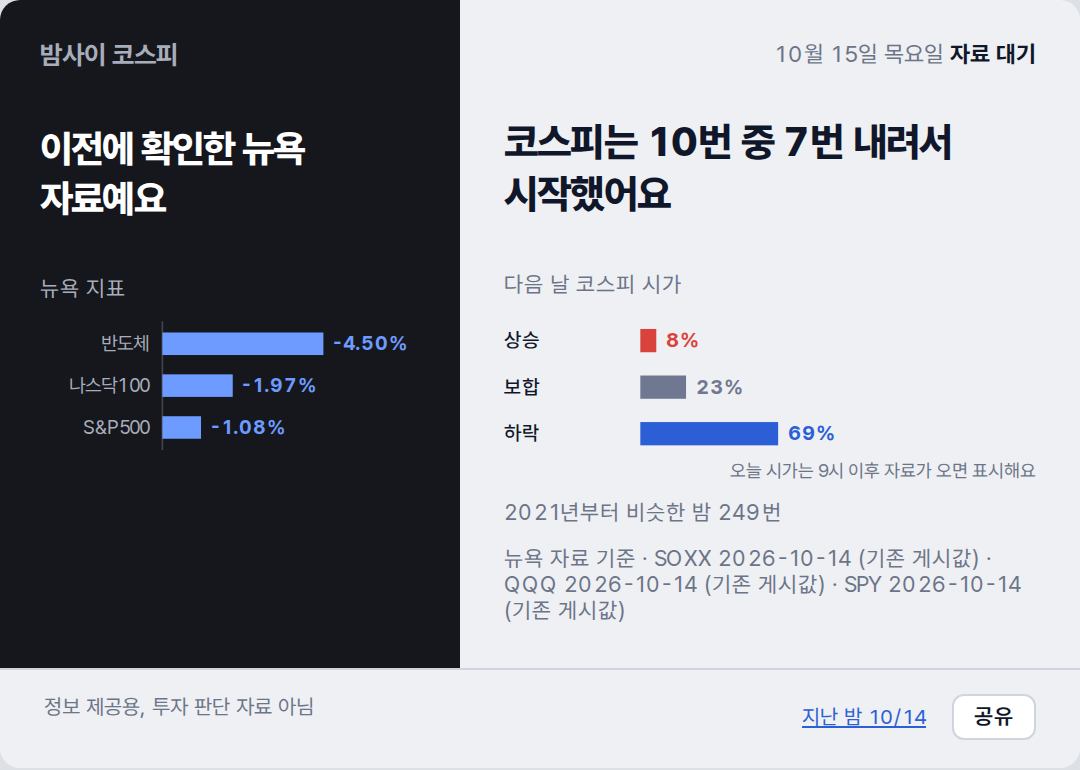
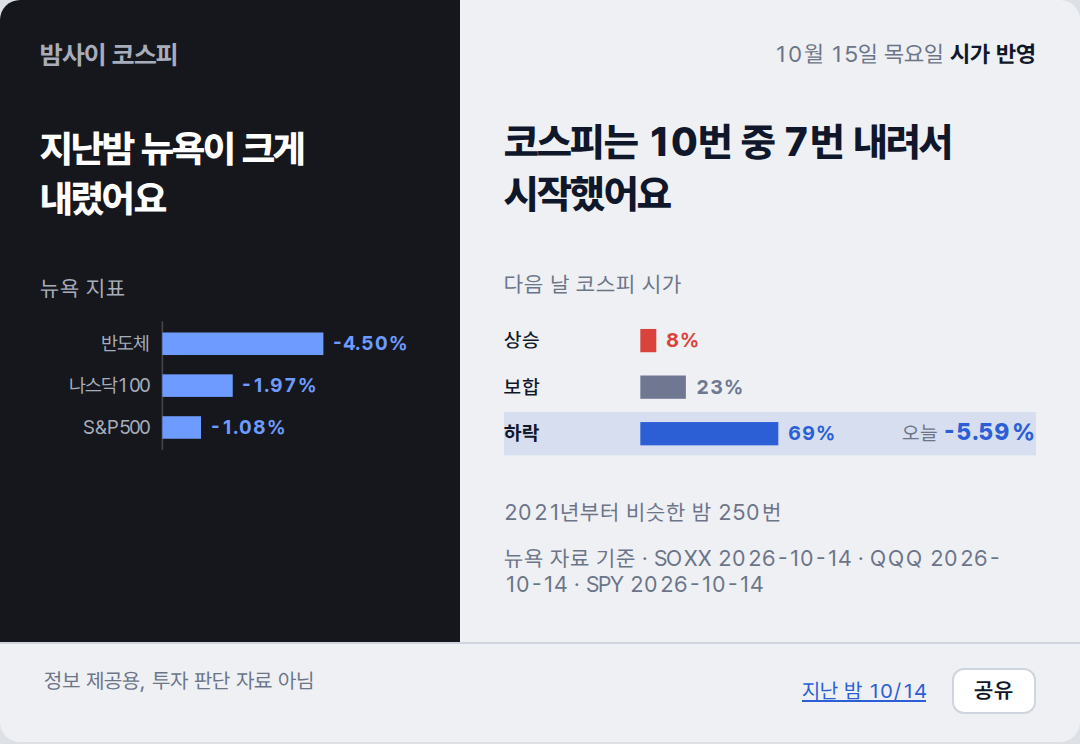
deploy: c0d07a214321b41f7cf333fef670b17ffe5b5852

diff --git a/2026-10-15/index.html b/2026-10-15/index.html
@@ -2,7 +2,7 @@
 <title>밤사이 코스피 · 2026-10-15</title>
 <meta name="description" content="전일 코스피 마감에서 밤사이 뉴욕을 거쳐 오늘 코스피 시가까지, 한 장.">
 <meta property="og:type" content="article"><meta property="og:site_name" content="밤사이 코스피"><meta property="og:url" content="https://mjs0611.github.io/kospi-relay/2026-10-15/">
-<meta property="og:title" content="이전에 확인한 뉴욕 자료예요"><meta property="og:description" content="코스피는 10번 중 7번 내려서 시작했어요">
+<meta property="og:title" content="지난밤 뉴욕이 크게 내렸어요"><meta property="og:description" content="코스피는 10번 중 7번 내려서 시작했어요">
 <meta property="og:image" content="https://mjs0611.github.io/kospi-relay/2026-10-15/relay.png"><meta property="og:image:width" content="1080"><meta name="twitter:card" content="summary_large_image">
 <link rel="stylesheet" href="https://cdn.jsdelivr.net/gh/orioncactus/pretendard@v1.3.9/dist/web/variable/pretendardvariable-dynamic-subset.min.css">
 <style>
@@ -26,7 +26,7 @@ footer a{color:#2C5FD6}
 .share{margin-left:10px;border:1px solid #CFD5DE;background:#FFF;color:#10172A;border-radius:6px;padding:4px 10px;font:600 11px var(--sans);cursor:pointer}
 @media (max-width:480px){.sheet{grid-template-columns:1fr}.cond{margin-top:18px}.claim{margin-top:4px}}
 </style></head><body><div class="sheet">
-<section class="night"><p class="brand">밤사이 코스피</p><p class="cond">이전에 확인한 뉴욕 자료예요</p><p class="lab">뉴욕 지표</p><svg viewBox="0 0 236 84" xmlns="http://www.w3.org/2000/svg" font-family="var(--sans)" font-size="12">
+<section class="night"><p class="brand">밤사이 코스피</p><p class="cond">지난밤 뉴욕이 크게 내렸어요</p><p class="lab">뉴욕 지표</p><svg viewBox="0 0 236 84" xmlns="http://www.w3.org/2000/svg" font-family="var(--sans)" font-size="12">
 <line x1="76" y1="2" x2="76" y2="82" stroke="var(--rule)" stroke-width="1"/>
 <text x="68" y="20" text-anchor="end" fill="var(--muted)">반도체</text>
 <rect x="76" y="9" width="100.0" height="14" fill="var(--down)"/>
@@ -38,23 +38,24 @@ footer a{color:#2C5FD6}
 <rect x="76" y="61" width="24.0" height="14" fill="var(--down)"/>
 <text x="106.0" y="72" fill="var(--down)" font-weight="700">-1.08%</text>
 </svg></section>
-<section class="day"><p class="stamp">10월 15일 목요일 <b>자료 대기</b></p><p class="claim">코스피는 10번 중 7번 내려서 시작했어요</p><p class="lab">다음 날 코스피 시가</p><svg viewBox="0 0 320 100" xmlns="http://www.w3.org/2000/svg" font-family="var(--sans)" font-size="12">
+<section class="day"><p class="stamp">10월 15일 목요일 <b>시가 반영</b></p><p class="claim">코스피는 10번 중 7번 내려서 시작했어요</p><p class="lab">다음 날 코스피 시가</p><svg viewBox="0 0 320 100" xmlns="http://www.w3.org/2000/svg" font-family="var(--sans)" font-size="12">
 <text x="0" y="20" fill="var(--ink)" font-weight="500">상승</text>
 <rect x="82" y="9" width="9.6" height="14" fill="var(--up)"/>
 <text x="97.6" y="20" fill="var(--up)" font-weight="700">8%</text>
 <text x="0" y="48" fill="var(--ink)" font-weight="500">보합</text>
-<rect x="82" y="37" width="27.5" height="14" fill="var(--flat)"/>
-<text x="115.5" y="48" fill="var(--flat)" font-weight="700">23%</text>
-<text x="0" y="76" fill="var(--ink)" font-weight="500">하락</text>
-<rect x="82" y="65" width="82.9" height="14" fill="var(--down)"/>
-<text x="170.9" y="76" fill="var(--down)" font-weight="700">69%</text>
-<text x="320" y="98" text-anchor="end" fill="var(--muted)" font-size="11">오늘 시가는 9시 이후 자료가 오면 표시해요</text>
-</svg><p class="cap">2021년부터 비슷한 밤 249번</p><p class="cap">뉴욕 자료 기준 · SOXX 2026-10-14 (기존 게시값) · QQQ 2026-10-14 (기존 게시값) · SPY 2026-10-14 (기존 게시값)</p></section>
+<rect x="82" y="37" width="27.4" height="14" fill="var(--flat)"/>
+<text x="115.4" y="48" fill="var(--flat)" font-weight="700">23%</text>
+<rect x="0" y="59" width="320" height="26" fill="var(--down)" opacity=".12"/>
+<text x="0" y="76" fill="var(--ink)" font-weight="700">하락</text>
+<rect x="82" y="65" width="83.0" height="14" fill="var(--down)"/>
+<text x="171.0" y="76" fill="var(--down)" font-weight="700">69%</text>
+<text x="320" y="76" text-anchor="end" fill="var(--ink)"><tspan fill="var(--muted)">오늘 </tspan><tspan font-weight="800" font-size="14" fill="var(--down)">-5.59%</tspan></text>
+</svg><p class="cap">2021년부터 비슷한 밤 250번</p><p class="cap">뉴욕 자료 기준 · SOXX 2026-10-14 · QQQ 2026-10-14 · SPY 2026-10-14</p></section>
 <footer><span>정보 제공용, 투자 판단 자료 아님</span><span style="white-space:nowrap"><a href="../2026-10-14/">지난 밤 10/14</a> <button class="share" type="button">공유</button></span></footer>
 <script>
 /* 공유: Web Share가 있으면 시스템 공유 시트, 없으면 링크 복사. 링크는 이 날짜 페이지(OG 카드 붙음) */
 document.querySelector('.share').addEventListener('click', async function () {
-  var url = 'https://mjs0611.github.io/kospi-relay/2026-10-15/', text = "이전에 확인한 뉴욕 자료예요. 코스피는 10번 중 7번 내려서 시작했어요";
+  var url = 'https://mjs0611.github.io/kospi-relay/2026-10-15/', text = "지난밤 뉴욕이 크게 내렸어요. 코스피는 10번 중 7번 내려서 시작했어요";
   try { if (navigator.share) { await navigator.share({ title: '밤사이 코스피', text: text, url: url }); return; } } catch (e) { if (e && e.name === 'AbortError') return; }
   try { await navigator.clipboard.writeText(text + '\n' + url); this.textContent = '링크 복사됨'; } catch (e) { location.href = url; }
 });

diff --git a/index.html b/index.html
@@ -2,7 +2,7 @@
 <title>밤사이 코스피 · 2026-10-15</title>
 <meta name="description" content="전일 코스피 마감에서 밤사이 뉴욕을 거쳐 오늘 코스피 시가까지, 한 장.">
 <meta property="og:type" content="article"><meta property="og:site_name" content="밤사이 코스피"><meta property="og:url" content="https://mjs0611.github.io/kospi-relay/2026-10-15/">
-<meta property="og:title" content="이전에 확인한 뉴욕 자료예요"><meta property="og:description" content="코스피는 10번 중 7번 내려서 시작했어요">
+<meta property="og:title" content="지난밤 뉴욕이 크게 내렸어요"><meta property="og:description" content="코스피는 10번 중 7번 내려서 시작했어요">
 <meta property="og:image" content="https://mjs0611.github.io/kospi-relay/2026-10-15/relay.png"><meta property="og:image:width" content="1080"><meta name="twitter:card" content="summary_large_image">
 <link rel="stylesheet" href="https://cdn.jsdelivr.net/gh/orioncactus/pretendard@v1.3.9/dist/web/variable/pretendardvariable-dynamic-subset.min.css">
 <style>
@@ -26,7 +26,7 @@ footer a{color:#2C5FD6}
 .share{margin-left:10px;border:1px solid #CFD5DE;background:#FFF;color:#10172A;border-radius:6px;padding:4px 10px;font:600 11px var(--sans);cursor:pointer}
 @media (max-width:480px){.sheet{grid-template-columns:1fr}.cond{margin-top:18px}.claim{margin-top:4px}}
 </style></head><body><div class="sheet">
-<section class="night"><p class="brand">밤사이 코스피</p><p class="cond">이전에 확인한 뉴욕 자료예요</p><p class="lab">뉴욕 지표</p><svg viewBox="0 0 236 84" xmlns="http://www.w3.org/2000/svg" font-family="var(--sans)" font-size="12">
+<section class="night"><p class="brand">밤사이 코스피</p><p class="cond">지난밤 뉴욕이 크게 내렸어요</p><p class="lab">뉴욕 지표</p><svg viewBox="0 0 236 84" xmlns="http://www.w3.org/2000/svg" font-family="var(--sans)" font-size="12">
 <line x1="76" y1="2" x2="76" y2="82" stroke="var(--rule)" stroke-width="1"/>
 <text x="68" y="20" text-anchor="end" fill="var(--muted)">반도체</text>
 <rect x="76" y="9" width="100.0" height="14" fill="var(--down)"/>
@@ -38,23 +38,24 @@ footer a{color:#2C5FD6}
 <rect x="76" y="61" width="24.0" height="14" fill="var(--down)"/>
 <text x="106.0" y="72" fill="var(--down)" font-weight="700">-1.08%</text>
 </svg></section>
-<section class="day"><p class="stamp">10월 15일 목요일 <b>자료 대기</b></p><p class="claim">코스피는 10번 중 7번 내려서 시작했어요</p><p class="lab">다음 날 코스피 시가</p><svg viewBox="0 0 320 100" xmlns="http://www.w3.org/2000/svg" font-family="var(--sans)" font-size="12">
+<section class="day"><p class="stamp">10월 15일 목요일 <b>시가 반영</b></p><p class="claim">코스피는 10번 중 7번 내려서 시작했어요</p><p class="lab">다음 날 코스피 시가</p><svg viewBox="0 0 320 100" xmlns="http://www.w3.org/2000/svg" font-family="var(--sans)" font-size="12">
 <text x="0" y="20" fill="var(--ink)" font-weight="500">상승</text>
 <rect x="82" y="9" width="9.6" height="14" fill="var(--up)"/>
 <text x="97.6" y="20" fill="var(--up)" font-weight="700">8%</text>
 <text x="0" y="48" fill="var(--ink)" font-weight="500">보합</text>
-<rect x="82" y="37" width="27.5" height="14" fill="var(--flat)"/>
-<text x="115.5" y="48" fill="var(--flat)" font-weight="700">23%</text>
-<text x="0" y="76" fill="var(--ink)" font-weight="500">하락</text>
-<rect x="82" y="65" width="82.9" height="14" fill="var(--down)"/>
-<text x="170.9" y="76" fill="var(--down)" font-weight="700">69%</text>
-<text x="320" y="98" text-anchor="end" fill="var(--muted)" font-size="11">오늘 시가는 9시 이후 자료가 오면 표시해요</text>
-</svg><p class="cap">2021년부터 비슷한 밤 249번</p><p class="cap">뉴욕 자료 기준 · SOXX 2026-10-14 (기존 게시값) · QQQ 2026-10-14 (기존 게시값) · SPY 2026-10-14 (기존 게시값)</p></section>
+<rect x="82" y="37" width="27.4" height="14" fill="var(--flat)"/>
+<text x="115.4" y="48" fill="var(--flat)" font-weight="700">23%</text>
+<rect x="0" y="59" width="320" height="26" fill="var(--down)" opacity=".12"/>
+<text x="0" y="76" fill="var(--ink)" font-weight="700">하락</text>
+<rect x="82" y="65" width="83.0" height="14" fill="var(--down)"/>
+<text x="171.0" y="76" fill="var(--down)" font-weight="700">69%</text>
+<text x="320" y="76" text-anchor="end" fill="var(--ink)"><tspan fill="var(--muted)">오늘 </tspan><tspan font-weight="800" font-size="14" fill="var(--down)">-5.59%</tspan></text>
+</svg><p class="cap">2021년부터 비슷한 밤 250번</p><p class="cap">뉴욕 자료 기준 · SOXX 2026-10-14 · QQQ 2026-10-14 · SPY 2026-10-14</p></section>
 <footer><span>정보 제공용, 투자 판단 자료 아님</span><span style="white-space:nowrap"><a href="./2026-10-14/">지난 밤 10/14</a> <button class="share" type="button">공유</button></span></footer>
 <script>
 /* 공유: Web Share가 있으면 시스템 공유 시트, 없으면 링크 복사. 링크는 이 날짜 페이지(OG 카드 붙음) */
 document.querySelector('.share').addEventListener('click', async function () {
-  var url = 'https://mjs0611.github.io/kospi-relay/2026-10-15/', text = "이전에 확인한 뉴욕 자료예요. 코스피는 10번 중 7번 내려서 시작했어요";
+  var url = 'https://mjs0611.github.io/kospi-relay/2026-10-15/', text = "지난밤 뉴욕이 크게 내렸어요. 코스피는 10번 중 7번 내려서 시작했어요";
   try { if (navigator.share) { await navigator.share({ title: '밤사이 코스피', text: text, url: url }); return; } } catch (e) { if (e && e.name === 'AbortError') return; }
   try { await navigator.clipboard.writeText(text + '\n' + url); this.textContent = '링크 복사됨'; } catch (e) { location.href = url; }
 });
